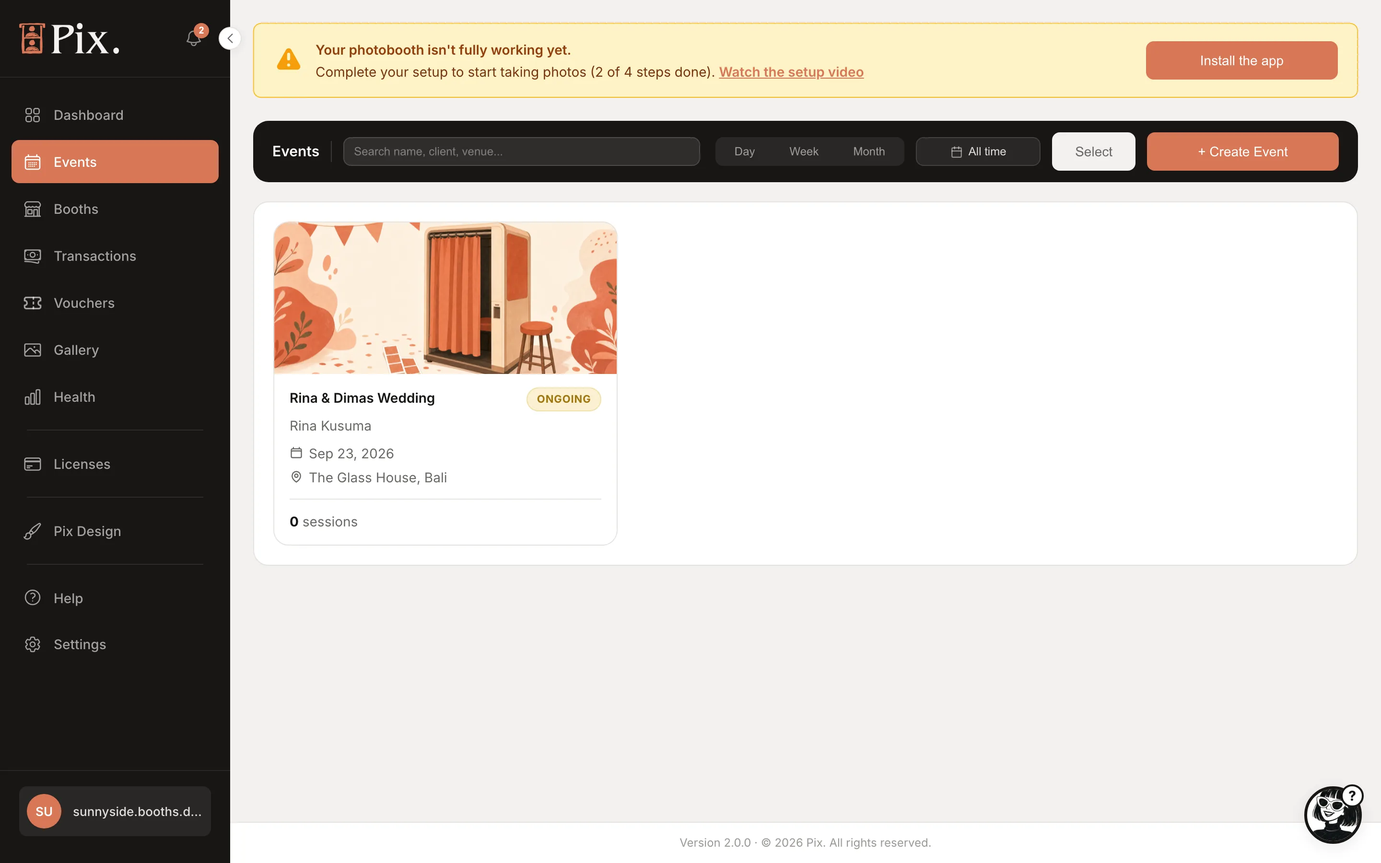
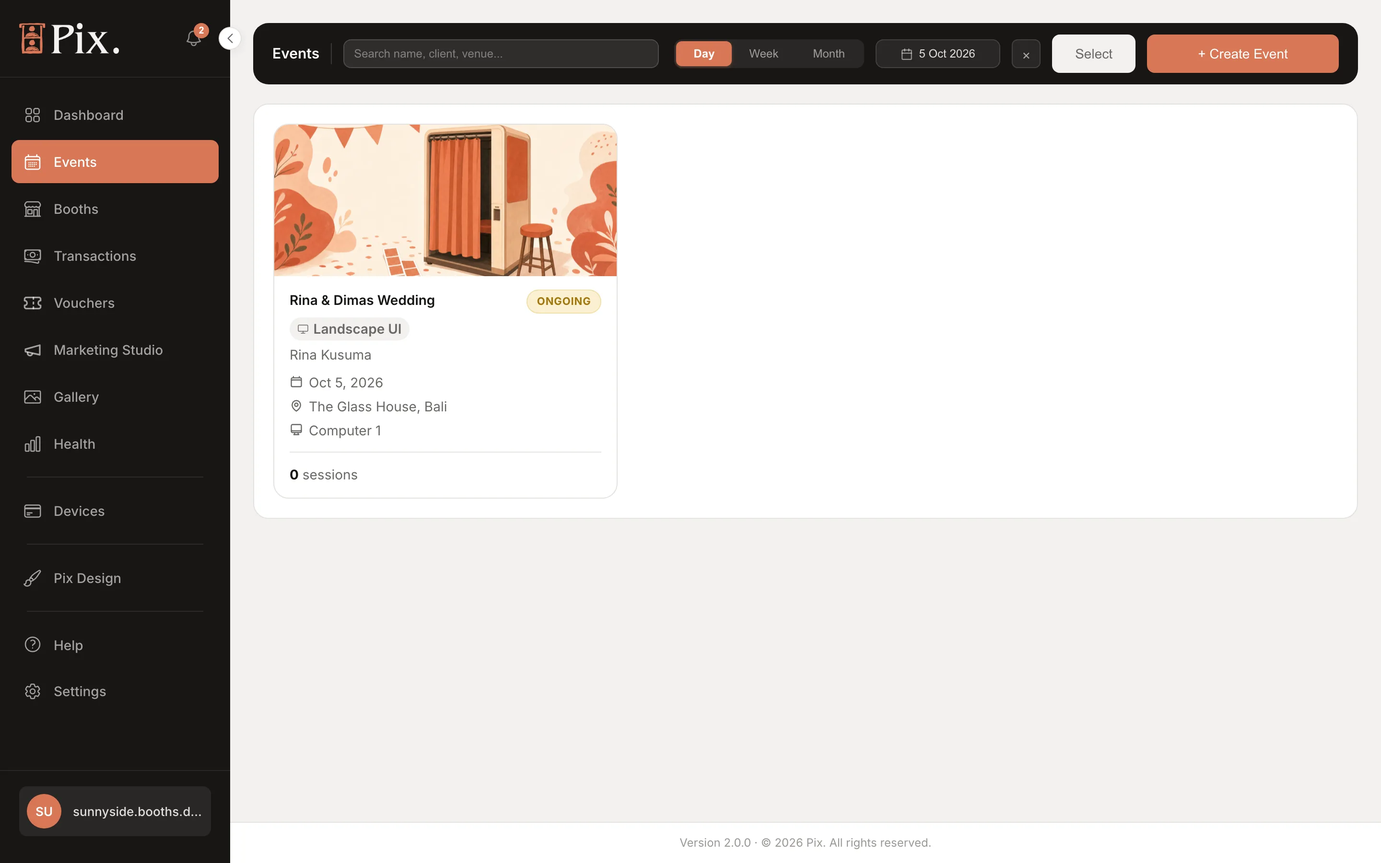
docs(events): match the pair-a-computer flow and Event Pass licensing, re-shoot event screenshots
Events pair computers with a 6-digit code; a code is only given when an
Event Pass or a spare Pix Pro is free. Updates the Events page, Run an Event,
Event Video Modes, Devices (Events tab removed) and the event-rental payment
setup. New screenshots from a clean Rina & Dimas event: list, event page,
Setup with the Computers card, pair popup (incl. Get a license first),
Manage Templates, Embed and Report. Removes images of the old booth flow.

diff --git a/docs/dashboard/events.md b/docs/dashboard/events.md
@@ -13,7 +13,7 @@ An **event** is a booking: a set of dates, a client and a venue, with its own bo
 
 ## The Events List
 
-Each event is a card with its cover photo, dates and status. The bar above it has a search box ("Search name, client, venue..."), **Day / Week / Month** pills, **Select** for bulk actions, **Delete** for the selected events, and **+ Create Event**.
+Each event is a card with its cover photo, name, client, venue, dates, status, a **Landscape UI** or **Portrait UI** chip, its computers, the session count and, for paid events, the revenue. The bar above it has a search box ("Search name, client, venue..."), **Day / Week / Month** pills, **Select** for bulk actions, **Delete** for the selected events, and **+ Create Event**.
 
 ## Creating an Event
 
@@ -23,16 +23,16 @@ Each event is a card with its cover photo, dates and status. The bar above it ha
 
 | Step | What you set |
 |---|---|
-| **Details** | **Event Name**, **Client**, **Booth mode**, **Output**, **Event date** (prefilled with today), **Start time**, **End time** and **Venue** |
+| **Details** | **Event Name**, **Client**, **Booth mode**, **Output**, **Event date** (prefilled with today), **Start Time** and **End Time** (both optional) and **Venue** |
 | **Templates** | The print templates guests can pick at this event |
-| **Screens** | The **Appearance**: the screen design the booth shows during the event. The list shows only designs made for the event's booth mode |
-| **Payment** | **Pay Per Session**: on, guests pay at the booth with the **Session price**, **Double session price**, **Group session price** and **Additional session price** you enter here; off, every session is free, for a hosted wedding or a sponsored booth. **Payment gateway**: leave it on the organization default unless the client needs another |
+| **Screens** | The **Appearance**: the screen design the booth shows during the event. Click **Configure** to pick one; a Landscape / Portrait switch filters the list, which shows only designs made for the event's booth mode |
+| **Payment** | **Pay Per Session**: on, guests pay at the booth with the **Session price**, plus **Double session price**, **Group session price** and **Additional session price**, each behind its own switch and on only if you sell it; off, every session is free, for a hosted wedding or a sponsored booth. **Payment gateway**: leave it on the organization default unless the client needs another. Without a connected gateway, turning on Pay Per Session tells you to connect one first in **Settings > Payment Gateway** |
 
 **Create event** saves it and opens the event page with **Pair a computer** ready.
 
 ### Booth Mode
 
-Each event has **one booth mode**, picked in the wizard and changed later with **Change** on the event page. The picker groups the modes:
+Each event has **one booth mode**, picked in the wizard and changed later with **Change** on the event page ("One mode per event. Booths pick it up at their start screen."). The picker groups the modes:
 
 | Group | Mode | What guests do |
 |---|---|---|
@@ -61,9 +61,9 @@ For Video the output is the video itself. Every computer paired to the event fol
 
 ![Event page: name, date, ONGOING chip, FREE FOR GUESTS badge, Link Sharing switch, overview cards, Album, Setup and Report tabs](/img/docs/event-detail.webp)
 
-The header shows the name, dates and times, the status chip (**ONGOING** from creation, **Ended** after the last date), a **Paid sessions** or **FREE FOR GUESTS** badge, "for" followed by the client's name, the venue and **Edit**.
+The header shows the name, dates and times, the status chip (**ONGOING** from creation, **ENDED** after the last date), a **PAID SESSIONS** or **FREE FOR GUESTS** badge, "for" followed by the client's name, the venue and **Edit**.
 
-The overview cards count Sessions, Prints and Revenue, show the upload queue (Uploaded, Uploading, then "All photos uploaded"), the **Link Sharing** switch with the album URL and **Copy**, and recent activity.
+The overview cards count **Sessions**, **Prints**, **Revenue** (paid events only) and **Booths** (the event's computers), with an **Analytics** link to an activity chart; show the upload queue (**Uploaded**, **Uploading**, then "All photos uploaded"); and hold the **Link Sharing** switch with the album URL and **Copy**.
 
 Link Sharing is on by default. The public album lives at `pixture.io/album/<slug>`; share the link or the QR with the client and their guests. Switch it off to make the album private. The booth always shows the album's QR code on the share screen.
 
@@ -81,6 +81,7 @@ Everything captured during the event, newest first, with a filter by computer, *
 
 ![Event Setup tab: setup progress, Computers card, Booth mode, Output and Appearance](/img/docs/event-setup-computers.webp)
 
+- Everything on this tab saves as you go; a small "Saving…" then "Saved" confirms it.
 - **Setup progress.** The same five steps as the wizard. Click a step to jump to the part of the page where it is done. The bar disappears once every step is done.
 - **Computers.** Every computer paired to the event, with its state:
 
@@ -91,20 +92,26 @@ Everything captured during the event, newest first, with a filter by computer, *
   | **Needs license** | Paired, but it has no Event Pass or Pix Pro yet. The booth will not start sessions until it has one |
   | **Not paired** | A pairing code was made but no computer used it yet |
 
-  Each row has **Extend 24h** (for a running Event Pass), **Use Pix Pro** (when a Pix Pro is free in your account) and **Unlink**. A line above the list says every computer has an Event Pass or Pix Pro, or how many computers still need an Event Pass or Pix Pro, with **Buy license**.
-- **Pair a computer.** Shows a 6-digit code to enter in the Pixture desktop app. A code is only given when a license is available for the computer: an unused Event Pass, or a Pix Pro that is on no computer. Otherwise the popup says "Get a license first" with **Buy license**, and after you pay, the dashboard brings you back to the event with the code ready.
+  Each row has **Extend 24h** (for a running Event Pass; with no unused pass it opens the Event Pass checkout), **Use Pix Pro** (on a **Needs license** row, when a Pix Pro is free in your account) and **Unlink**. A **Not paired** row, named "Waiting for a computer", has **Show code**. Once a computer is paired, a line above the list says "This computer has an Event Pass or Pix Pro." (or "All N computers have an Event Pass or Pix Pro."), or "N computers need an Event Pass or Pix Pro." with **Buy license**. On a multi-day event it counts an Event Pass per computer for each day left, so a computer with a running pass can still be counted as short.
+
+  Before any computer is paired the card reads "No computers paired yet": "Pair the computers you'll run at this event. Each one needs an Event Pass or Pix Pro."
+- **+ Pair a computer.** Opens the **Pair a computer** popup with a 6-digit code: "Enter this code in the Pixture App to link it to" your event, with **Copy code**, **Regenerate** and **Pair later**. A line under the code names the license waiting for it, for example "You have 1 Event Pass ready." A code is only given when a license is available for the computer: an unused Event Pass, or a Pix Pro that is on no computer. Otherwise the popup says "Get a license first": "Each computer needs an Event Pass or Pix Pro. Buy one, then pair here.", with **Buy license** and **Later**. After you pay, the dashboard brings you back to the event and the popup shows "Finishing your payment" until the license lands, then the code.
+
+  ![Pair a computer popup with a 6-digit code and "You have 1 Event Pass ready."](/img/docs/event-pair-popup.webp)
+
+  ![Pair a computer popup saying "Get a license first" with Buy license and Later](/img/docs/event-pair-needs-license.webp)
 - **Booth mode**, **Output** and **Appearance.** Each is a box showing the current choice, with **Change**. Appearance lists only screen designs made for the event's booth mode.
-- **Template**, **Countdown**, **Mirror** and **Overlay** (photo modes). **Template** reads "Assign at least 1 template. Until you do, guests at this event have nothing to pick." **Add templates** and **Manage Templates** pick from your own templates; **Browse template packs** opens Pixture's free template packs, when packs are available: each pack brings its print layouts, a GIF overlay and a matching booth look. The event's template set is exclusive: the booth's own templates are not offered while the event runs. Video shows its own settings instead; see [Event Video Modes](../desktop-app/event-video-modes.md).
+- **Template**, **Countdown**, **Mirror** and **Overlay** (photo modes). **Template** reads "Assign at least 1 template. Until you do, guests at this event have nothing to pick." **Add templates** and **+ Manage Templates** pick from your own templates; the Manage Templates popup's **Browse template packs** button opens Pixture's free template packs ("Choose a template"), when packs are available: each pack brings its print layouts, a GIF overlay and a matching booth look. The event's template set is exclusive: the booth's own templates are not offered while the event runs. Video shows its own settings instead; see [Event Video Modes](../desktop-app/event-video-modes.md). **Template** opens with "Which designs guests can pick at this event. Assign at least one: booths on this event offer only these, not their own library." and a **Preview** card on the right. **Countdown** is a slider from 1 to 10 seconds before each shot. **Mirror** is "Mirror captured photos": it mirrors the live preview and the saved result, like a selfie. **Overlay** is **None** or one of your GIF/Video overlay designs.
 
 ### Report
 
-Per-computer health for the event: camera, printer, paper, memory and disk, sessions, prints and active hours, followed by "Incidents during the event".
+Per-computer health for the event, with an Online or Offline badge and the app version: camera, printer, paper remaining, CPU temperature, memory, free storage, API latency, monitor, sessions, prints, active hours, incidents and the printer unit, followed by "Incidents during the event".
 
 ![Event Report tab](/img/docs/event-report.webp)
 
 ## Editing and Deleting
 
-**Edit** opens the Edit Event modal with the name, client, dates, times, venue, Pay Per Session prices and payment gateway. Computers, booth mode, outputs, screen design and templates are changed on the Setup tab. **Delete Event** on the event page works at any time, even while the event is live (the list's bulk **Delete** skips ongoing events); the photo sessions stay in your account, only the event and its album go away.
+**Edit** opens the Edit Event modal with the name, client, dates, times, venue, Pay Per Session prices and, once Pay Per Session is on, the payment gateway. It is available until the event ends. Computers, booth mode, outputs, screen design and templates are changed on the Setup tab. **Delete Event** on the event page, or **Select** then **Delete** on the list, works at any time, even while the event is live. Its computers are unlinked (an Event Pass or Pix Pro stays on them) and the photos stay in your Gallery; only the event and its album go away.
 
 ## Licenses, Pricing and Transactions
 
@@ -114,6 +121,7 @@ Per-computer health for the event: camera, printer, paper, memory and disk, sess
 - **Bringing a computer that already has Pix Pro**: unlink it from its booth on the dashboard first. That puts its Pix Pro back in your account, so the event shows a pairing code and the computer pairs in on its own Pix Pro.
 - While the event runs, its session price, packages and gateway replace the booth's own. Tax, fees and currency stay the booth's. The booth shows the Payment screen when the event charges and skips it when the event is free.
 - Photo sessions captured during the event carry an event chip on [Transactions](./transactions.md), so the client's takings are easy to pull out.
+- **After the event.** The night after its last date, the event's computers are unlinked and the booth app returns to its pairing screen. Their Event Pass or Pix Pro stays on them; pair each one to its next booth or event with a code.
 
 ## Related
 

diff --git a/docs/tutorials/run-an-event.md b/docs/tutorials/run-an-event.md
@@ -22,14 +22,14 @@ In this tutorial you will create an event with the wizard, pair the computers th
 
    ![Events page with one ongoing event card and the + Create Event button](/img/docs/steps/tutorials-run-an-event--events-list.webp)
 
-2. Fill in **Event Name** and **Client**. Under **Booth mode** the event starts as **Photobooth**; click **Change** to pick **Studio** or **Video** instead. Under **Output**, untick anything guests should not get: **Prints**, **GIF**, **Live photo** or **Singles** (the raw photos). Then set the **Event date**, **Start time**, **End time** and **Venue**, and click **Next**.
+2. Fill in **Event Name** and **Client**. Under **Booth mode** the event starts as **Photobooth**; click **Change** to pick **Studio** or **Video** instead. Under **Output**, untick anything guests should not get: **Prints**, **GIF**, **Live photo** or **Singles** (the raw photos). Then set the **Event date**, the optional **Start Time** and **End Time**, and the **Venue**, and click **Next**.
 
    ![Create Event wizard, Details step with Booth mode and Output](/img/docs/event-create-wizard.webp)
 
-3. **Templates**: pick the templates guests can choose from. **Next**.
-4. **Screens**: the **Appearance** is the screen design the booth shows. The list holds only designs made for the booth mode you picked; leave the Default Layout or choose your own. **Next**.
-5. **Payment**: turn on **Pay Per Session** and enter the **Session price**, **Double session price**, **Group session price** and **Additional session price** if guests pay at this event; leave it off for a client-paid event. Pick a **Payment gateway** or keep the organization default.
-6. Click **Create event**. The event page opens with **Pair a computer** ready.
+3. **Templates**: click **Configure** and tick the templates guests can choose from, or skip this and add them on the Setup tab later. **Next**.
+4. **Screens**: the **Appearance** is the screen design the booth shows. Click **Configure** to pick one; the list holds only designs made for the booth mode you picked, and a Landscape / Portrait switch filters it. Leave the Default Layout or choose your own. **Next**.
+5. **Payment**: turn on **Pay Per Session** and enter the **Session price** if guests pay at this event, then switch on **Double session price**, **Group session price** or **Additional session price** only for the packages you sell; leave it off for a client-paid event. Pick a **Payment gateway** or keep the organization default.
+6. Click **Create event**. The event page opens on the **Setup** tab with the **Pair a computer** popup already open.
 
 ## Step 2: Understand the Event Status
 
@@ -45,9 +45,9 @@ In this tutorial you will create an event with the wizard, pair the computers th
 
    ![Event Setup tab with setup progress, the Computers card, Booth mode, Output and Appearance](/img/docs/event-setup-computers.webp)
 
-2. In the **Computers** card, click **Pair a computer**. You get a 6-digit code when a license is available for it: an unused Event Pass, or a Pix Pro that is on no computer. If not, the popup says "Get a license first": click **Buy license**, choose **Event Pass** (for an event) or **Pix Pro** (for regular use), pay, and the dashboard brings you back here with the code.
+2. In the **Computers** card, click **+ Pair a computer** (or use the popup that opened after you created the event). You get a 6-digit code, with **Copy code** and **Regenerate**, when a license is available for it: an unused Event Pass, or a Pix Pro that is on no computer. If not, the popup says "Get a license first": click **Buy license**, choose **Event Pass** (for an event) or **Pix Pro** (for regular use), pay, and the dashboard brings you back here with the code. **Pair later** closes the popup; a waiting row then has **Show code**.
 
-   ![Pair a computer popup with a 6-digit code](/img/docs/event-pair-popup.webp)
+   ![Pair a computer popup with a 6-digit code and "You have 1 Event Pass ready."](/img/docs/event-pair-popup.webp)
 
 3. At the venue, open the Pixture desktop app. On a fresh computer, enter the code on the login screen. On a computer that is already set up, open the operator menu and tap **Pair with a code**; it does not log you out. Repeat for every computer at the event.
 4. Each paired computer appears in the **Computers** card. **Needs license** means it has no Event Pass or Pix Pro yet. On the day, the booth asks "Use an Event Pass for today?": tap **Use Event Pass** (or **Use Pix Pro** if one is free). Its row then shows **Event Pass** with a countdown.
@@ -64,15 +64,15 @@ Unlink it from its everyday booth on the dashboard first. That puts its Pix Pro 
 
 2. The **Output** box lists what guests get. **Change** opens the four options with a picture and a line each; tick the ones you want and **Save**. Every computer on the event follows it.
 3. The **Appearance** box shows the screen design. **Change** lists the designs made for the event's booth mode, by screen orientation.
-4. With **Video**, the video settings appear below: **Display text before recording**, a **Timeline Preset**, the clip recording duration and speed, a **Soundtrack**, an **Overlay** and a preview. See [Event Video Modes](../desktop-app/event-video-modes.md).
+4. With **Video**, the video settings appear below: **Countdown**, **Video length**, **Quality**, **Size**, **Display text before recording**, **Mirror captured videos**, **Keep original clip**, an **Overlay** (or an orientation when there is none) and optional **Intro video** and **Outro video**. They save as you go. See [Event Video Modes](../desktop-app/event-video-modes.md).
 
 ## Step 5: Assign Templates
 
-1. In a photo mode, the **Template** tab reads "Assign at least 1 template. Until you do, guests at this event have nothing to pick." Click **Add templates** (or **Manage Templates**) to tick templates from your own Pix Design projects, or **Browse template packs** for Pixture's free packs (when packs are available): each pack brings its print layouts, a GIF overlay and a matching booth look.
+1. In a photo mode, the **Template** tab reads "Assign at least 1 template. Until you do, guests at this event have nothing to pick." Click **Add templates** (or **+ Manage Templates**) to tick templates from your own Pix Design projects; the popup's **Browse template packs** button opens Pixture's free packs (when packs are available): each pack brings its print layouts, a GIF overlay and a matching booth look.
 
    ![Manage Templates modal on an event](/img/docs/steps/tutorials-run-an-event--event-manage-templates-modal.webp)
 
-2. **Countdown**, **Mirror** and **Overlay** sit next to it, for the countdown before each shot, mirroring the live view and the frame burned into GIFs.
+2. **Countdown**, **Mirror** and **Overlay** sit next to it: the countdown before each shot (1 to 10 seconds), mirroring the live view and the saved photo like a selfie, and the overlay drawn over GIFs and videos.
 
 :::note
 An event's template set is exclusive. While the event runs, the booth offers only the templates assigned here, not its everyday set. Assign at least one before the doors open.
@@ -91,11 +91,11 @@ An event's template set is exclusive. While the event runs, the booth offers onl
 
 1. Keep an eye on the **Computers** card: each Event Pass shows its time left. For a longer event, click **Extend 24h** on a computer's row to add 24 hours from an unused Event Pass.
 2. On **Transactions**, sessions captured during the event carry an event chip.
-3. Open the **Report** tab for each computer's camera, printer, paper, memory and disk, sessions, prints and active hours, plus **Incidents during the event**.
+3. Open the **Report** tab for each computer's camera, printer, paper remaining, CPU temperature, memory, free storage, API latency, monitor, sessions, prints, active hours, incidents and printer unit, plus **Incidents during the event**.
 
    ![Event Report tab with per-booth health and incidents](/img/docs/steps/tutorials-run-an-event--event-report.webp)
 
-4. **Edit** changes the dates, prices or gateway at any time, even while the event is live. **Delete Event** in the toolbar removes it. The day after the last date the event ends by itself, and the computers are released the night after.
+4. **Edit** changes the dates, prices or gateway at any time until the event ends, even while it is live. **Delete Event** in the toolbar removes it. The day after the last date the event ends by itself, and the computers are released the night after.
 
 ## Check It Worked
 

diff --git a/docs/desktop-app/event-video-modes.md b/docs/desktop-app/event-video-modes.md
@@ -7,7 +7,7 @@ tags: [desktop-app, events, video, slow-mo]
 
 # Event Video Modes
 
-An event can turn every booth in it into a video booth for the day. The mode is chosen once on the event, synced to each booth, and the booth records short clips with the event's intro, outro, soundtrack and overlay instead of taking photos. This page explains where the mode is set, what the booth's Capture Settings page mirrors, how a video session runs, and where the original clip is kept. Video modes need the Pixture desktop app 1.1.102 or newer.
+An event can turn every booth in it into a video booth for the day. The mode is chosen once on the event, synced to each booth, and the booth records short clips with the event's overlay, intro and outro instead of taking photos. This page explains where the mode is set, what the booth's Capture Settings page mirrors, how a video session runs, and where the original clip is kept. Video modes need the Pixture desktop app 1.1.102 or newer.
 
 ## Where the Mode Is Chosen
 
@@ -15,26 +15,26 @@ Video is one of the event's booth modes, set per **event**, not per booth:
 
 1. In the dashboard, open **Events**, pick the event and open its **Setup** tab. (Or pick it while creating the event: the wizard's Details step has **Booth mode**.)
 2. In the **Booth mode** box, click **Change** and choose **Video** from the Video group. **360 Slow-mo** is marked **Soon** and cannot be chosen unless the event already had it.
-3. Fill in the video settings that appear: **Display text before recording**, the Timeline **Preset**, the clip recording duration and speed, a **Soundtrack**, and the **Overlay**. **Preview** shows the result. Changes save as you go.
+3. Fill in the video settings that appear: **Countdown**, **Video length**, **Quality**, **Size**, **Display text before recording**, **Mirror captured videos**, **Keep original clip**, the **Overlay** (or an orientation when there is none) and an optional **Intro video** and **Outro video**. Changes save as you go. The Timeline **Preset**, clip speeds and **Soundtrack** belong to 360 Slow-mo.
 
 An event has one booth mode, and every computer paired to it uses it. Switching the mode keeps the computers paired; each booth picks it up on its next Start screen. The event's output becomes the video itself, and its screen design runs the Start and Payment screens before recording. Outside an event a booth runs its own mode. See [Events](../dashboard/events.md) and [Run an Event](../tutorials/run-an-event.md).
 
 ## The Booth's Capture Settings Page
 
-The operator menu has a **Capture Settings** page whose only job is video and 360 slow-mo. Its subtitle tells you whether it is live: "Synced with event X…" while an event runs, or "No ongoing event — this booth shoots photos…" otherwise. It shows the same choices as the event's Setup tab, so a change can be made at the booth or in the dashboard:
+The operator menu has a **Capture Settings** page whose only job is video and 360 slow-mo. Its subtitle tells you whether it is live: while an event runs it names the event and says the dashboard and this page edit the same settings; with no event running it says the booth shoots photos. It holds the main choices, so a quick change can be made at the booth; **Mirror captured videos**, **Keep original clip**, the orientation and the intro and outro videos are set in the dashboard only:
 
 - Mode pills: **Photo**, **Video**, **360 Slow-mo**.
 - **Video** card: **Countdown**, **Video length**, **Quality**, **Size** (Rectangle 720p or 1080p), **Display text before recording**, **Image overlay**.
 - **360/Slow-mo** card: **Countdown**, **Quality**, **Size**, **Display text before recording**, **Preset**, **Recording duration**, **Reverse**, **Timeline** (the clip speeds), **Image overlay**.
-- **Back** and **Save**. Save confirms "Saved & synced ✓" when an event is running, or "Saved here — no ongoing event" when it is not.
+- **Back** and **Save**. Save confirms **Saved & synced** when an event is running; with no event it says the change was saved on this booth only.
 
 A save at the booth is pushed back to the event, and a save in the dashboard reaches the booth on its next check-in. The photo Session Time and idle timeouts are not on this page; they are Pix Design page settings.
 
 ## How a Video Session Runs
 
-Home, Tutorial and Payment run as usual. Then, instead of Template Selection, the booth shows **Video Capture**: the display text, a countdown, and the recording from the live view. The clip is processed on the booth (overlay, slow-mo speed ramps and the reverse pass for a 360 clip, then the event's intro, outro and soundtrack are joined on) and the **Video Done** screen shows the finished clip. **Done** returns to Home; the booth keeps the video mode for the next round, and the clip reaches the guest through the share page like any other session output.
+Home, Tutorial and Payment run as usual. Then, instead of Template Selection, the booth shows **Video Capture**: the display text, a countdown, and the recording from the live view. The clip is processed on the booth (overlay, slow-mo speed ramps and the reverse pass for a 360 clip, then the event's intro and outro are joined on, plus the soundtrack for a 360 clip) and the **Video Done** screen shows the finished clip. **Done** returns to Home; the booth keeps the video mode for the next round, and the clip reaches the guest through the share page like any other session output.
 
-The intro, outro, soundtrack and overlay are downloaded once from the event and cached on the booth. A PNG chosen as **Image overlay** on the booth overrides the event's overlay design.
+The intro, outro, overlay and any soundtrack are downloaded once from the event and cached on the booth. A PNG chosen as **Image overlay** on the booth overrides the event's overlay design.
 
 ## Portrait Recording
 
@@ -42,7 +42,7 @@ A booth mounted for portrait records in portrait, and a portrait overlay from **
 
 ## Keep Original Clip
 
-With **Keep original clip** on, the booth also saves the untouched recording, before overlay, intro and outro, to the computer's Videos folder under **Pix Originals** as `Pix_<session>_original.mp4`. Only the finished clip is uploaded to the share page; the original stays on the booth for your own editing.
+**Keep original clip** ("Also saves the video without the overlay") is on by default. The booth then also saves the untouched recording, before overlay, intro and outro, to the computer's Videos folder under **Pix Originals** as `Pix_<session>_original.mp4`. Only the finished clip is uploaded to the share page; the original stays on the booth for your own editing.
 
 :::caution
 Video is recorded from the camera's live view, so the clip's quality is the live view quality, not the full sensor resolution. A Canon body with a clean, well-lit live view gives the best result.

diff --git a/docs/dashboard/billing.md b/docs/dashboard/billing.md
@@ -1,7 +1,7 @@
 ---
 sidebar_position: 12
 title: Devices
-description: The Devices page, where you see which computers run Pix Pro, add devices, buy Event Passes, deactivate a computer, and check that an event's booths are ready.
+description: The Devices page, where you see which computers run Pix Pro, add devices, buy Event Passes, and deactivate a computer.
 tags: [dashboard, devices, billing, subscription]
 ---
 
@@ -48,7 +48,7 @@ A computer does not need activating by hand. When your subscription has a place 
 ![Pix Pro checkout: How many devices, See volume pricing, Pix Pro (1 Month) $40 and Pix Pro (1 Year) $300 with Save 38%](/img/docs/licenses-add-devices.webp)
 
 1. Click **Buy license** and pick **Event Pass** or **Pix Pro**. Each has its own checkout.
-2. **Pix Pro:** pick Monthly or Yearly and set **How many devices?**. Several at once earn a volume discount; **See volume pricing** shows the table. **Event Pass:** set how many. The price is flat.
+2. **Pix Pro:** pick Monthly or Yearly and set **How many devices?**. Several at once earn a volume discount; **See volume pricing** shows the table. **Event Pass:** the checkout is **Buy Event Pass**; set **How many computers?**. The price is flat; to run longer, extend from the event page. A checkout opened from an event brings you back to it.
 3. Click **Select** on a plan card and pay at checkout.
 
 | Plan card | Price | Note on the card |
@@ -65,11 +65,9 @@ Outside Indonesia you pay by card at checkout, and Monthly and Yearly renew unti
 
 Adding devices to a card subscription you already have shows **Confirm this charge** before anything is billed.
 
-## Events Tab
-
-![Devices page, Events tab: Event, Date, Booths, Ready](/img/docs/licenses-events-tab.webp)
-
-Every event with its date, booth count and whether it is covered: **Ready**, **No booth**, or a note that N computers need an Event Pass or Pix Pro. A booth's computer needs Pix Pro or an unused Event Pass for the event day. See [Events](./events.md).
+:::tip Events
+Whether an event's computers are covered shows on the event itself: its **Computers** card says "All N computers have an Event Pass or Pix Pro." or how many still need one. See [Events](./events.md).
+:::
 
 ## Before Pix Pro Ends
 

diff --git a/docs/tutorials/payment-setups-by-use-case.md b/docs/tutorials/payment-setups-by-use-case.md
@@ -23,8 +23,8 @@ The booth travels to the customer. The client pays you a flat fee per event, typ
 **Set it up**
 
 1. Create an **Event** for the date, with its own name, client and venue. A fresh event is **Free for guests** with **Link Sharing** on, so booths that follow the event skip the Payment screen and every guest gets their photos by QR gallery. See [Run an Event](./run-an-event.md).
-2. Assign the booths you bring to the event. They follow the event's dates and switch back the night after it ends.
-3. If the client sells something at the event, say a sponsor charging for a keepsake print, give the event its own gateway under **Edit > Payment gateway** so the money goes to their account. See [Create a Payment Gateway](./create-a-payment-gateway.md), Step 8.
+2. Pair the computers you bring from the event page (**Pair a computer**). They follow the event's dates; the night after it ends they are unlinked, so pair each one back to its everyday booth.
+3. If the client sells something at the event, say a sponsor charging for a keepsake print, turn on **Pay Per Session** under **Edit**, then pick the event's own **Payment gateway** so the money goes to their account. See [Create a Payment Gateway](./create-a-payment-gateway.md), Step 8.
 4. Extras that earn on top of the fee: **Sell AI Portraits** on the guest share page, and an event template pack or exclusive templates the client approves in advance.
 
 **What to watch**
